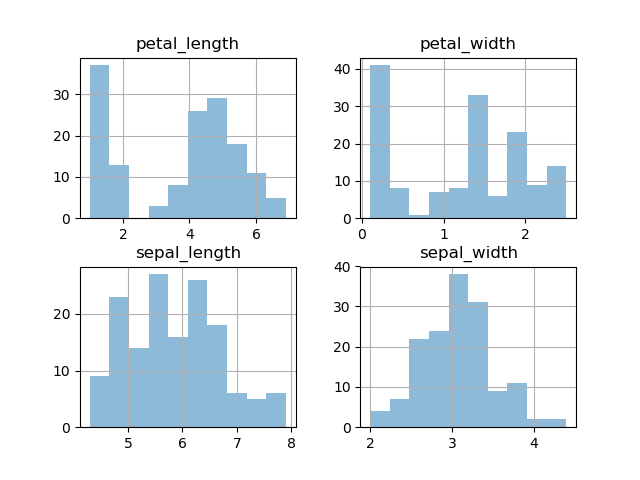
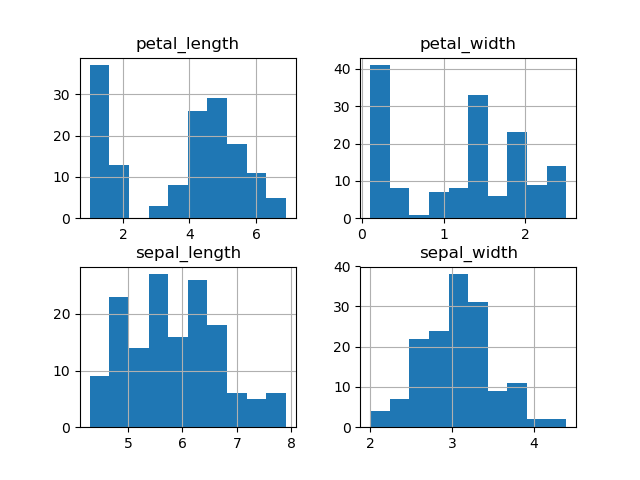
Added Seaborn graphs to analyses and histogram Comparison of Sepal Length & Width

diff --git a/fisher_iris.py b/fisher_iris.py
@@ -4,10 +4,11 @@
 
 # Importing Pandas module to python for calculations and importing of csv file with data.
 # Importing numpy and matplotlib for plots and graphs
+# Importing seaborn to get all species on one graph for stacking
 import pandas as pd
 import numpy as np 
 import matplotlib.pyplot as plt 
-
+import seaborn as sbn
 
 # Reads in the Iris Dataset into python.
 # Code adapted from: https://datatofish.com/use-pandas-to-calculate-stats-from-an-imported-csv-file/
@@ -29,6 +30,20 @@ overall_mean.to_csv('overall_mean.csv')
 median_by_species.to_csv('median_by_species.csv')
 overall_median.to_csv('overall_median.csv')
 
-df.hist(alpha=0.5, bins=10)
-plt.savefig('Overall_Histogram.png')
+# Seaborn graphs adapting code from: http://python-graph-gallery.com/histogram/
+sbn.distplot(df.sepal_length, color='blue',label='Sepal Length')
+sbn.distplot(df.sepal_width, color='orange',label='Sepal Width')
+plt.legend()
+plt.savefig('sepal_width_sepal_length_comparison.png')
 
+# Code for graphs adapted from: https://pandas.pydata.org/pandas-docs/stable/user_guide/visualization.html 
+df.hist(bins=10)
+plt.savefig('Overall_Histogram.png')
+df.hist(column='sepal_length',stacked=True,bins=10,by='species')
+plt.savefig('sepal_length_Histogram.png')
+df.hist(column='sepal_width',bins=10)
+plt.savefig('sepal_width_Histogram.png')
+df.hist(column='petal_length',bins=10)
+plt.savefig('petal_length_Histogram.png')
+df.hist(column='petal_width',bins=10)
+plt.savefig('petal_width_Histogram.png')

diff --git a/README.MD b/README.MD
@@ -253,3 +253,5 @@ Note: Additional reference information and detailed commentary on how the Python
 - Converting Dataframe to CSV [link](https://chrisalbon.com/python/data_wrangling/pandas_saving_dataframe_as_csv/)
 - Converting .csv to .md [link](https://donatstudios.com/CsvToMarkdownTable)
 - Group by for mean [link](https://datatofish.com/use-pandas-to-calculate-stats-from-an-imported-csv-file/)
+- Seaborn info for graphing [link](https://python-graph-gallery.com/25-histogram-with-several-variables-seaborn/)
+- Seaborn guide for graphs [link](http://python-graph-gallery.com/histogram/)
